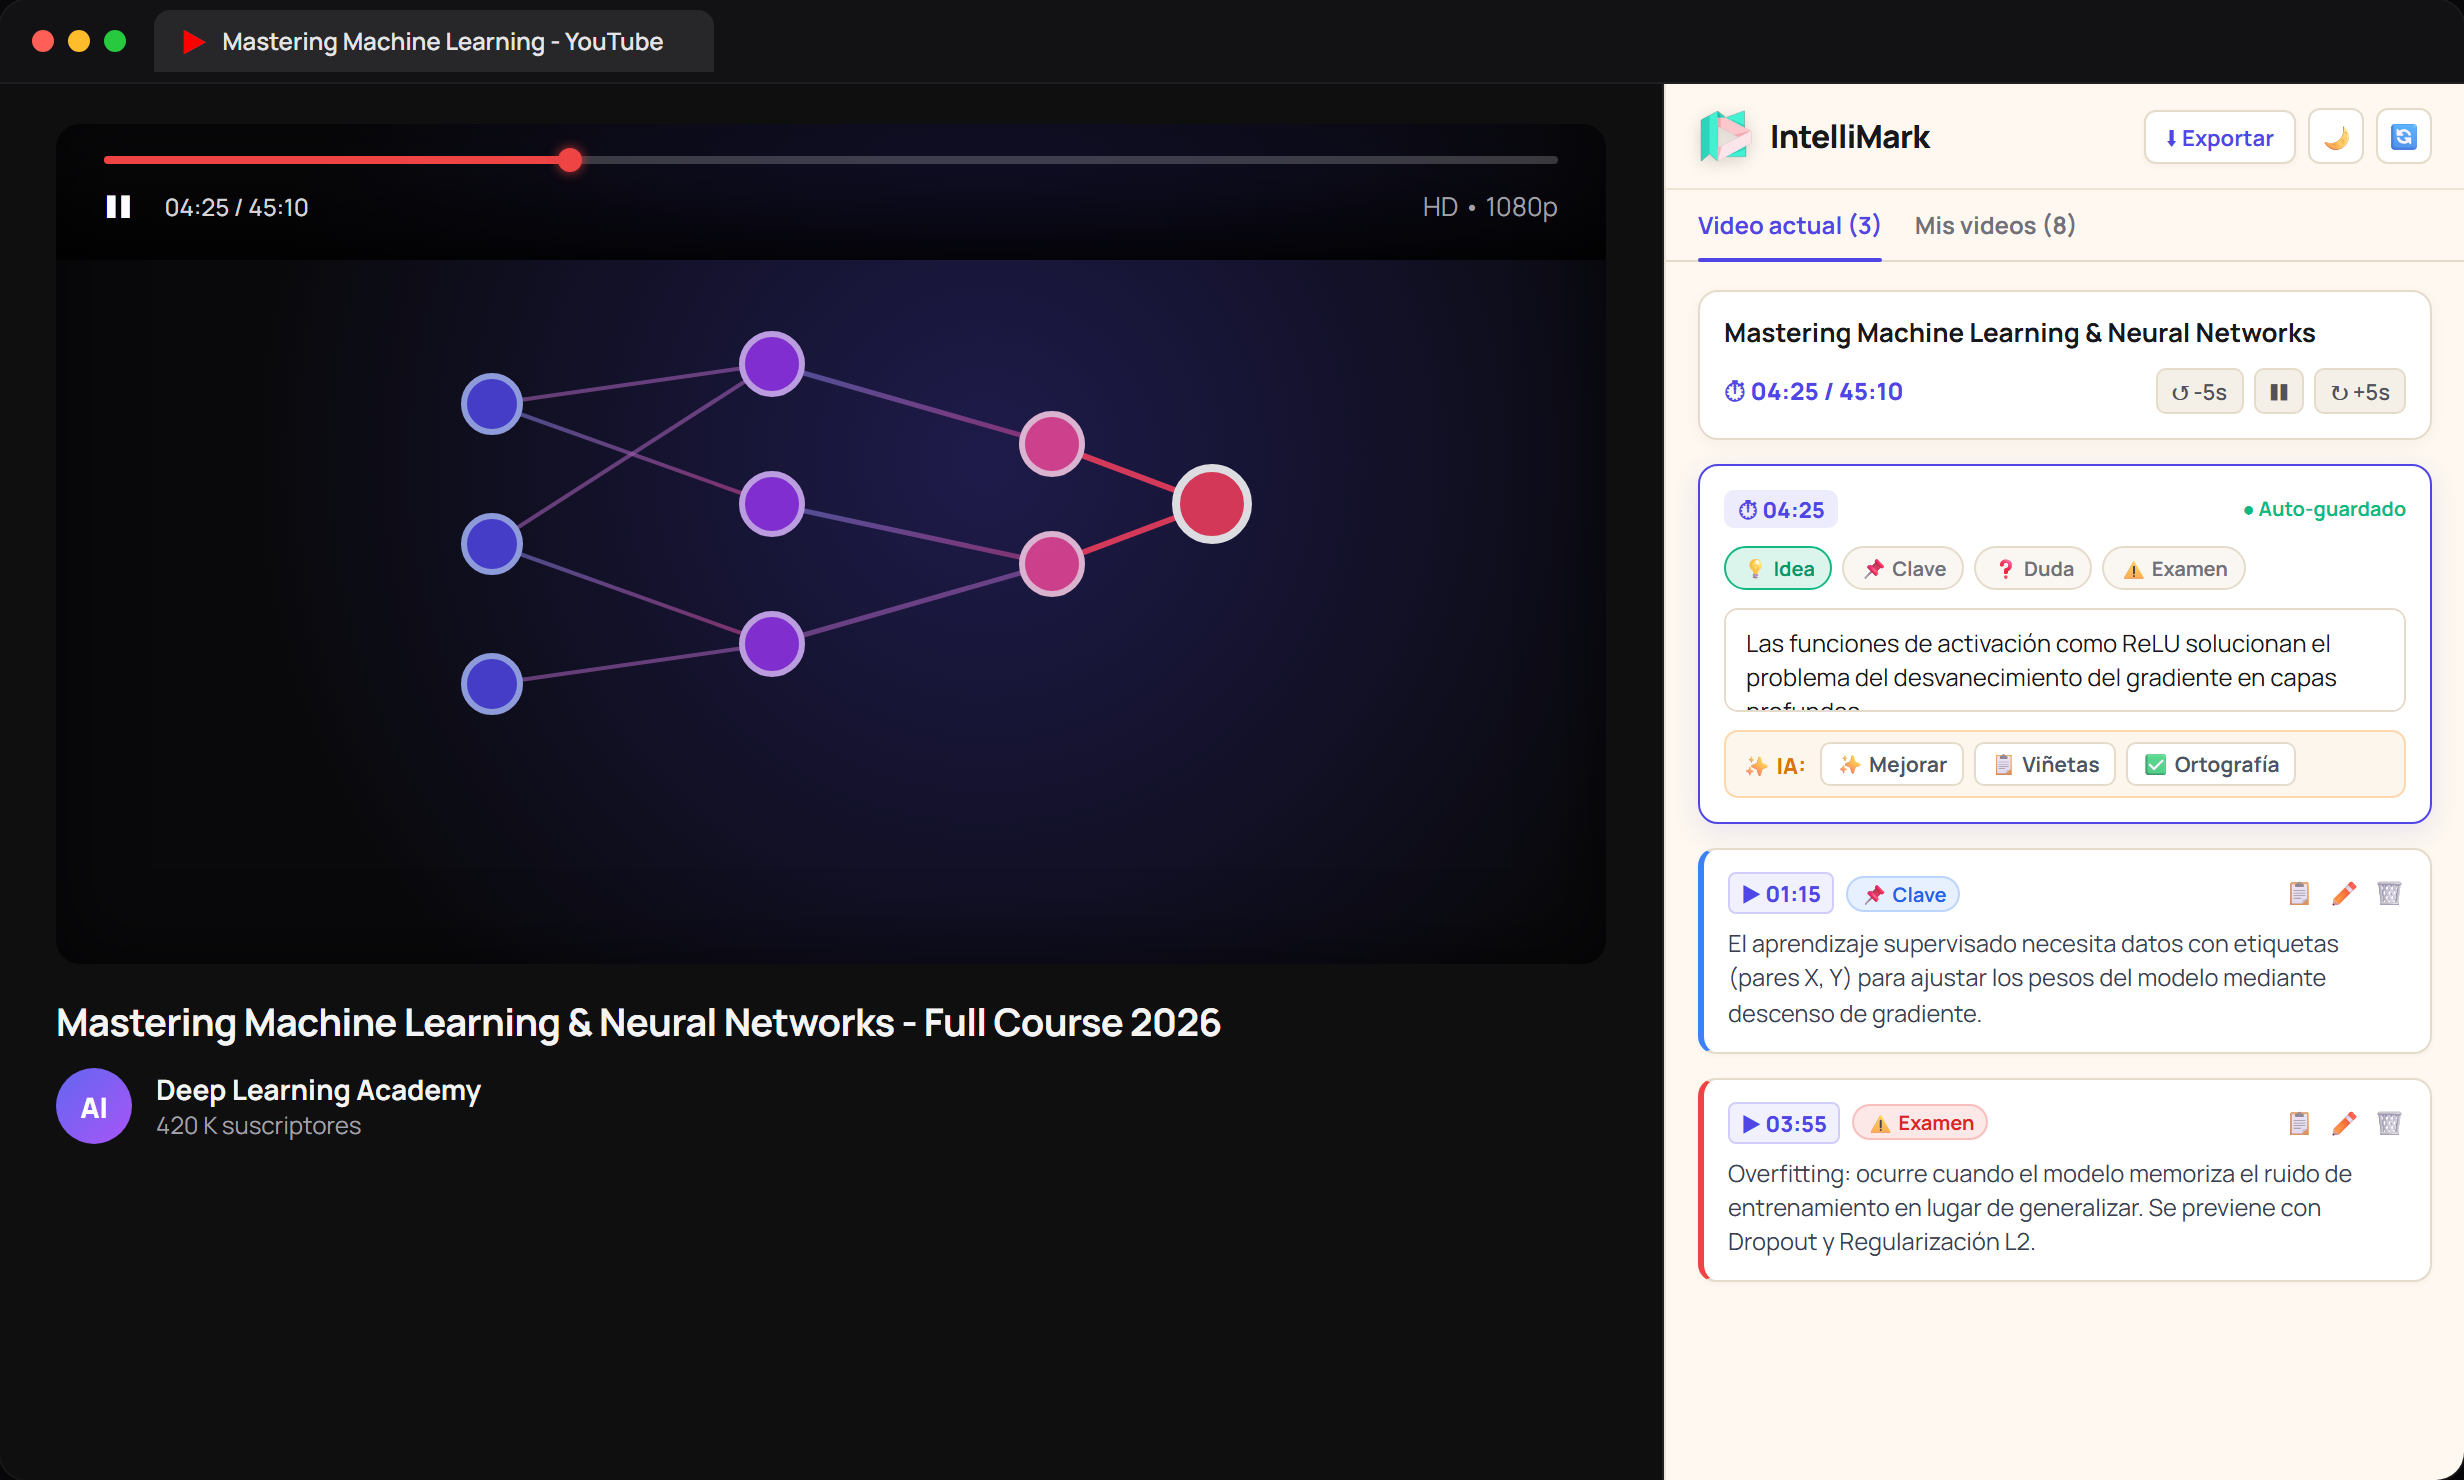
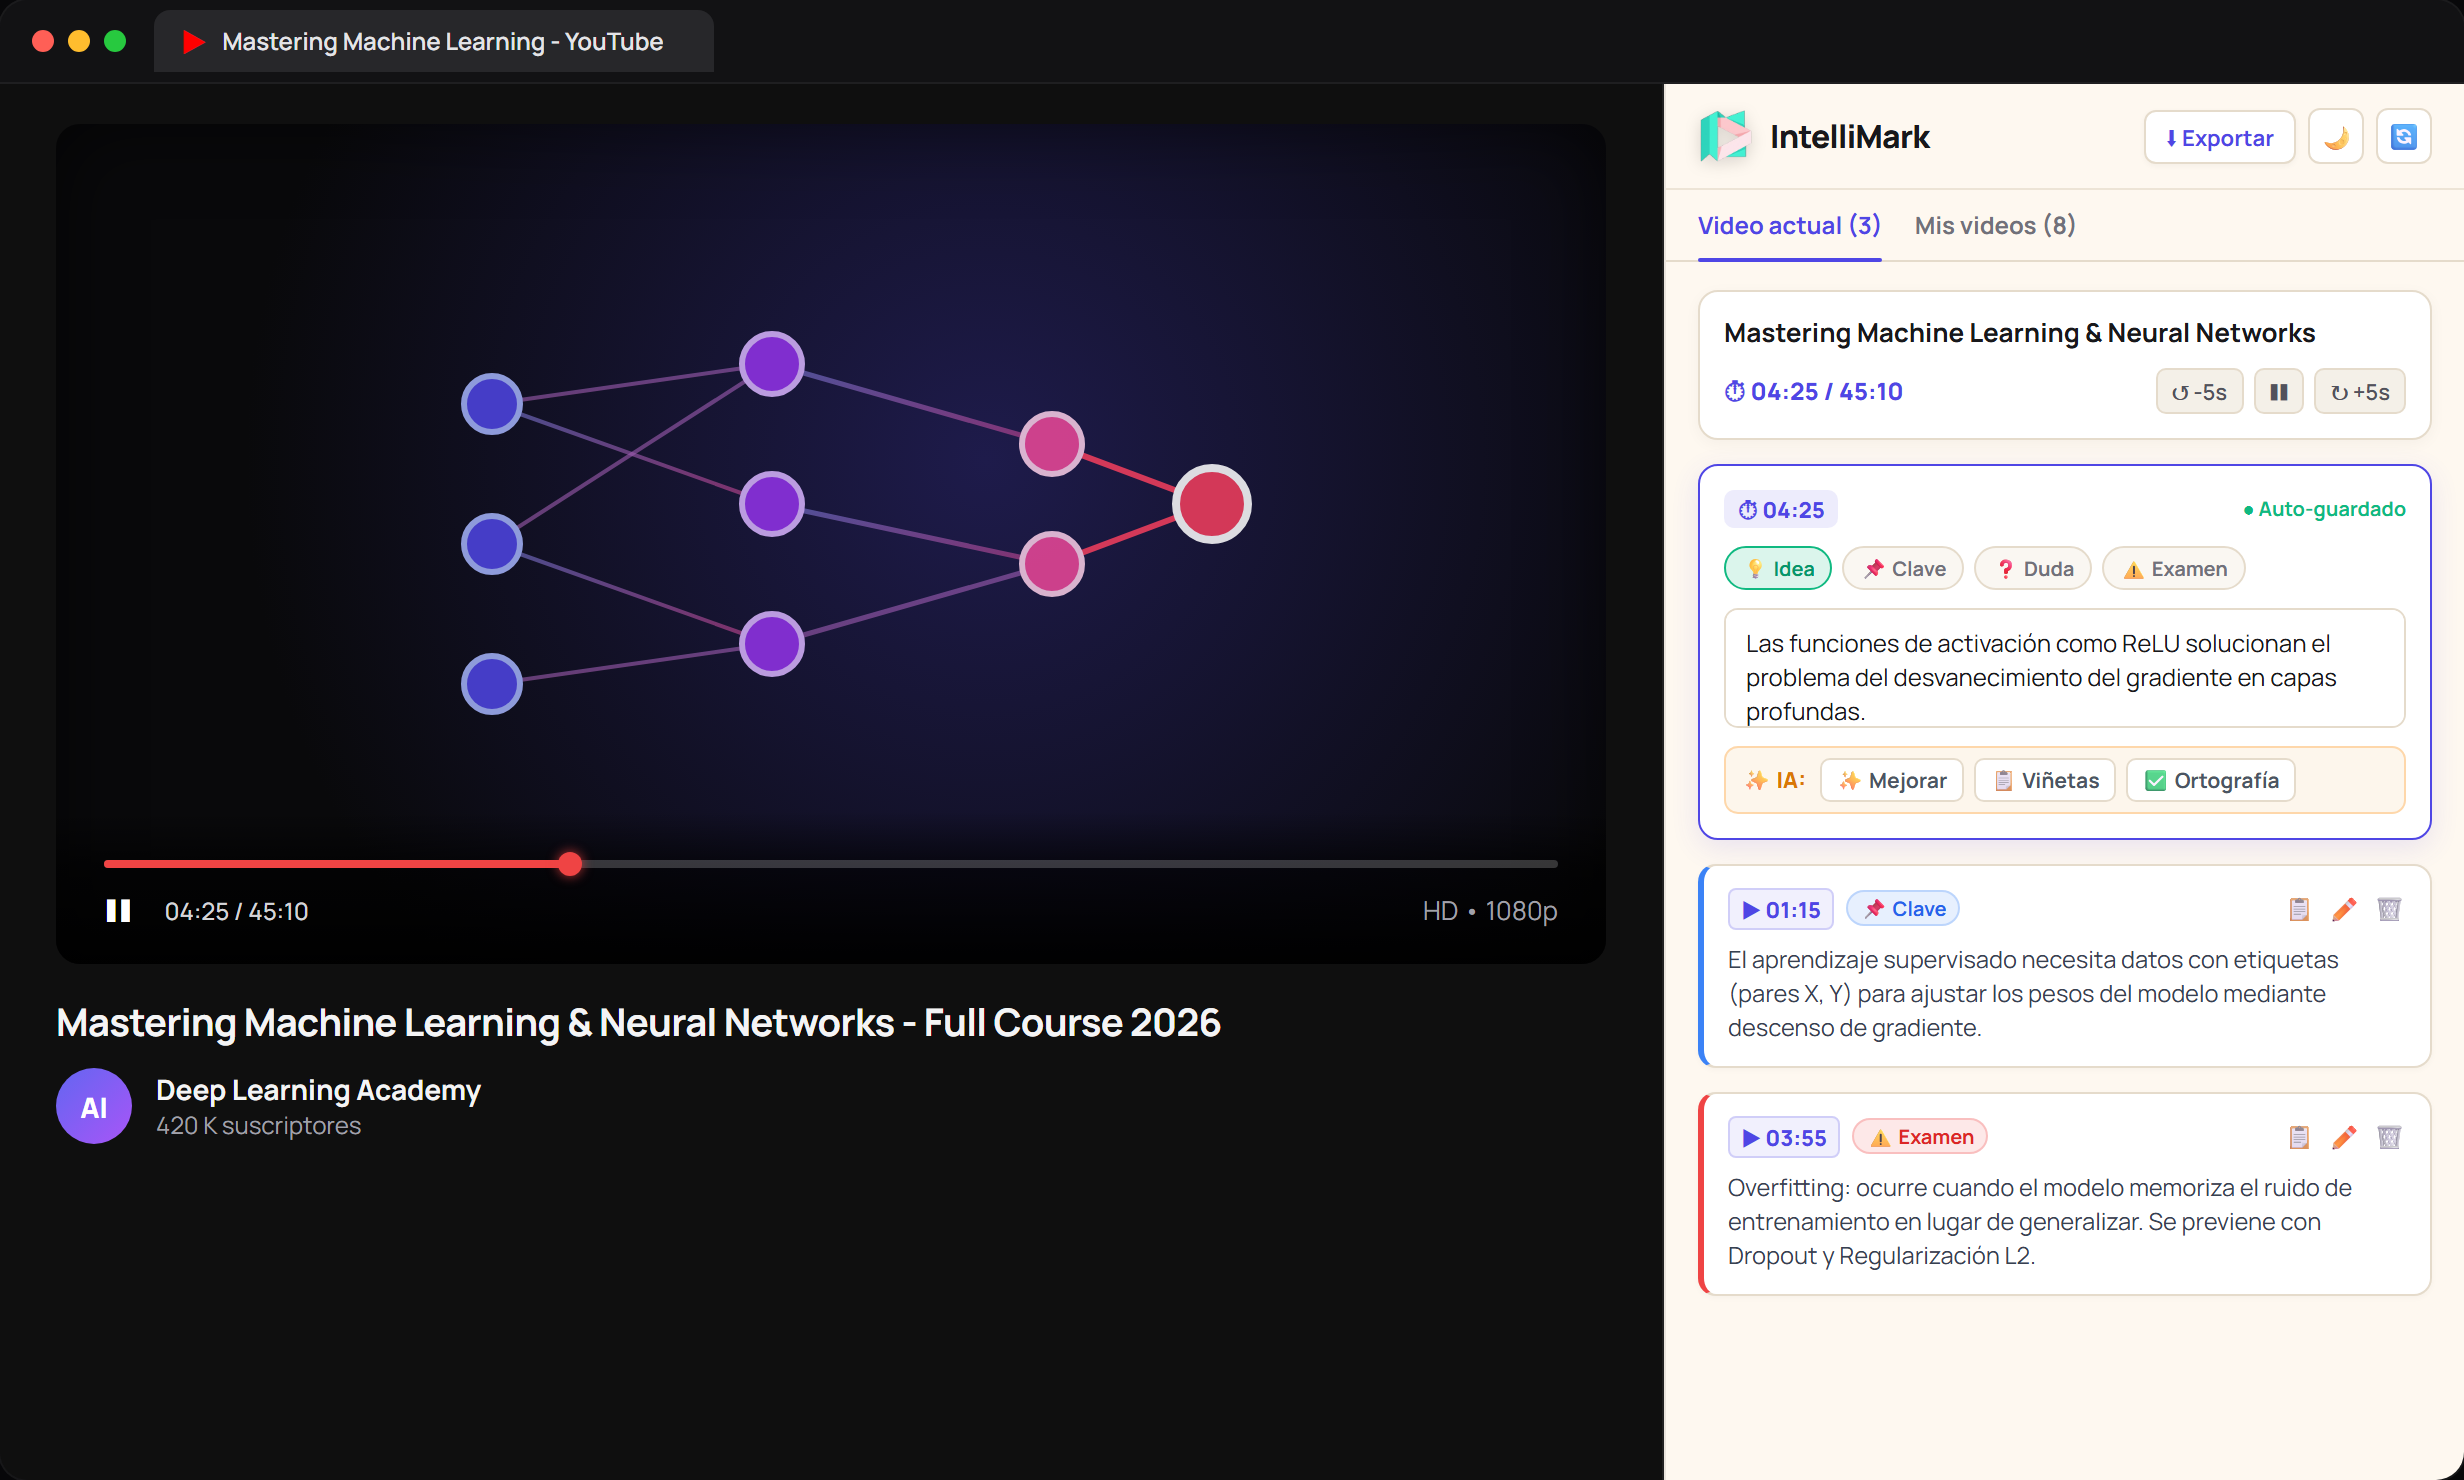
docs: actualizar preview

Changed region(s): [[0.6875, 0.4662, 1.0, 0.8703], [0.0312, 0.0932, 0.625, 0.1865], [0.0312, 0.5595, 0.625, 0.6527]]

diff --git a/scripts/render-showcase.html b/scripts/render-showcase.html
@@ -121,13 +121,16 @@
       opacity: 0.85;
     }
     .yt-player-controls {
-      margin-top: auto;
+      position: absolute;
+      bottom: 0;
+      left: 0;
+      right: 0;
       display: flex;
       flex-direction: column;
       gap: 10px;
-      background: linear-gradient(transparent, rgba(0, 0, 0, 0.85));
-      margin: -24px;
-      padding: 16px 24px;
+      background: linear-gradient(to top, rgba(0, 0, 0, 0.95) 0%, rgba(0, 0, 0, 0.6) 65%, transparent 100%);
+      padding: 24px 24px 16px 24px;
+      z-index: 10;
     }
     .progress-bar-bg {
       width: 100%;
@@ -415,6 +418,7 @@
 
     .note-textarea {
       width: 100%;
+      height: 60px;
       border: 1px solid #e5dbcb;
       border-radius: 7px;
       padding: 8px 10px;
